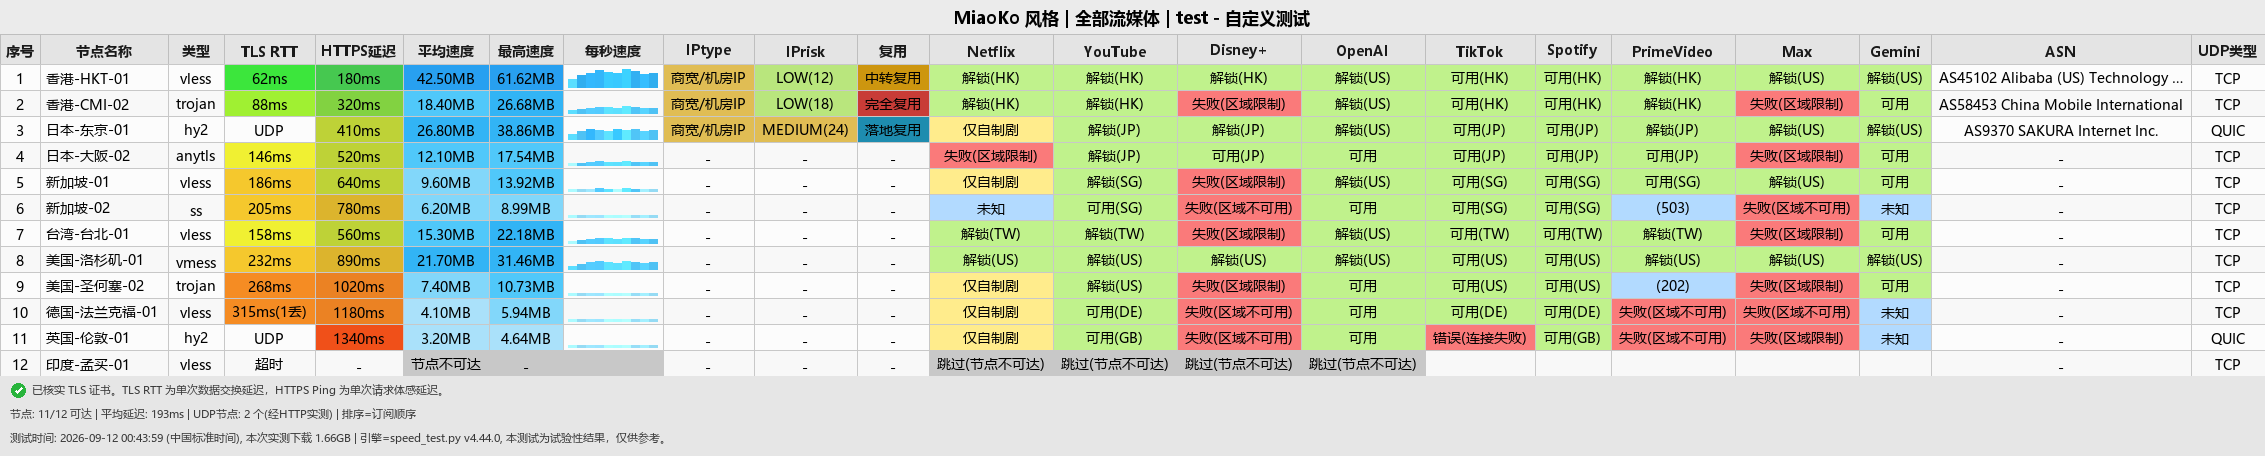
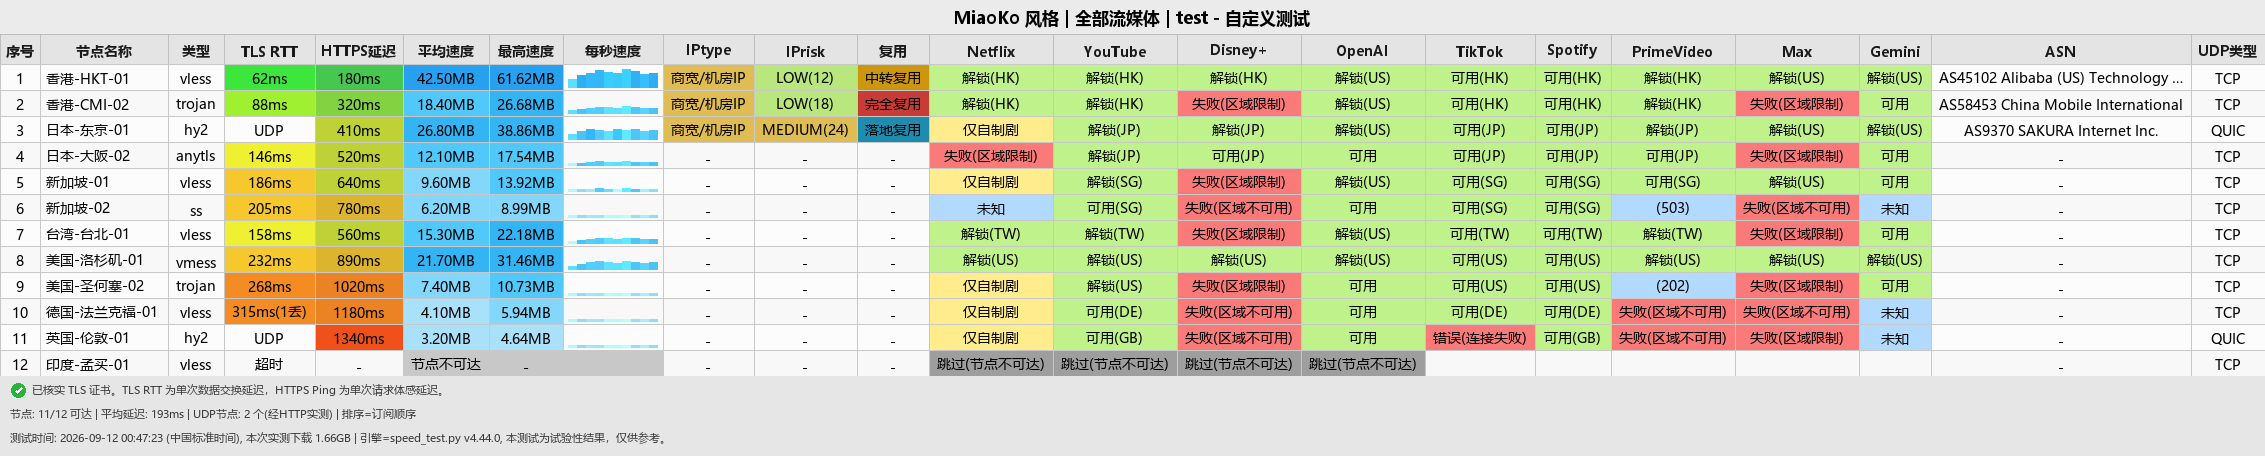
v4.44.0 报告渲染补丁：未归类状态串不再出白块 + 跳过色与 config 统一
- _streaming_block：streaming_color 对未归类状态串兜底返回纯白 (255,255,255)，
  现统一转成"不填色"——否则将来出现新状态词（限流/已下线等）会重新画出白块
  （与 v4.44.0 修的"未测格纯白看着像图被截断"同源）
- streaming_color 的"跳过"档改用 config.STREAMING_STATUS_COLORS["skip"]（#9E9E9E），
  不再硬编码 (200,200,200)（与"无数据"灰同色，区分不出跳过与无数据）
- docs/preview_report.png 同步重制（表体纯白像素 0）

Changed region(s): [[0.4018, 0.7675, 0.649, 0.8289]]

diff --git a/core/miaoko_report.py b/core/miaoko_report.py
@@ -166,7 +166,9 @@ def streaming_color(status):
     if "解锁" in s or "可用" in s or "自制" in s:
         return (192, 242, 140)
     if "跳过" in s:
-        return (200, 200, 200)
+        # v4.44.0：与 config.STREAMING_STATUS_COLORS["skip"] 同色（原来硬编码 (200,200,200)，
+        # 与“无数据”灰同色，区分不出“跳过未测”与“没有数据”）
+        return STREAMING_STATUS_COLORS["skip"]
     return (255, 255, 255)
 
 
@@ -178,7 +180,10 @@ def _streaming_block(status):
     """
     if not status or status == "--":
         return None
-    return streaming_color(status)
+    block = streaming_color(status)
+    # streaming_color 对“未归类的状态串”仍会兜底返回纯白；纯白 = 不填色，
+    # 否则一旦出现新状态词（如“限流”）就会重新画出白块（同 5-1 类回归）
+    return None if block == (255, 255, 255) else block
 
 
 def sparkline_color_red(mb, brightness=1.0):
